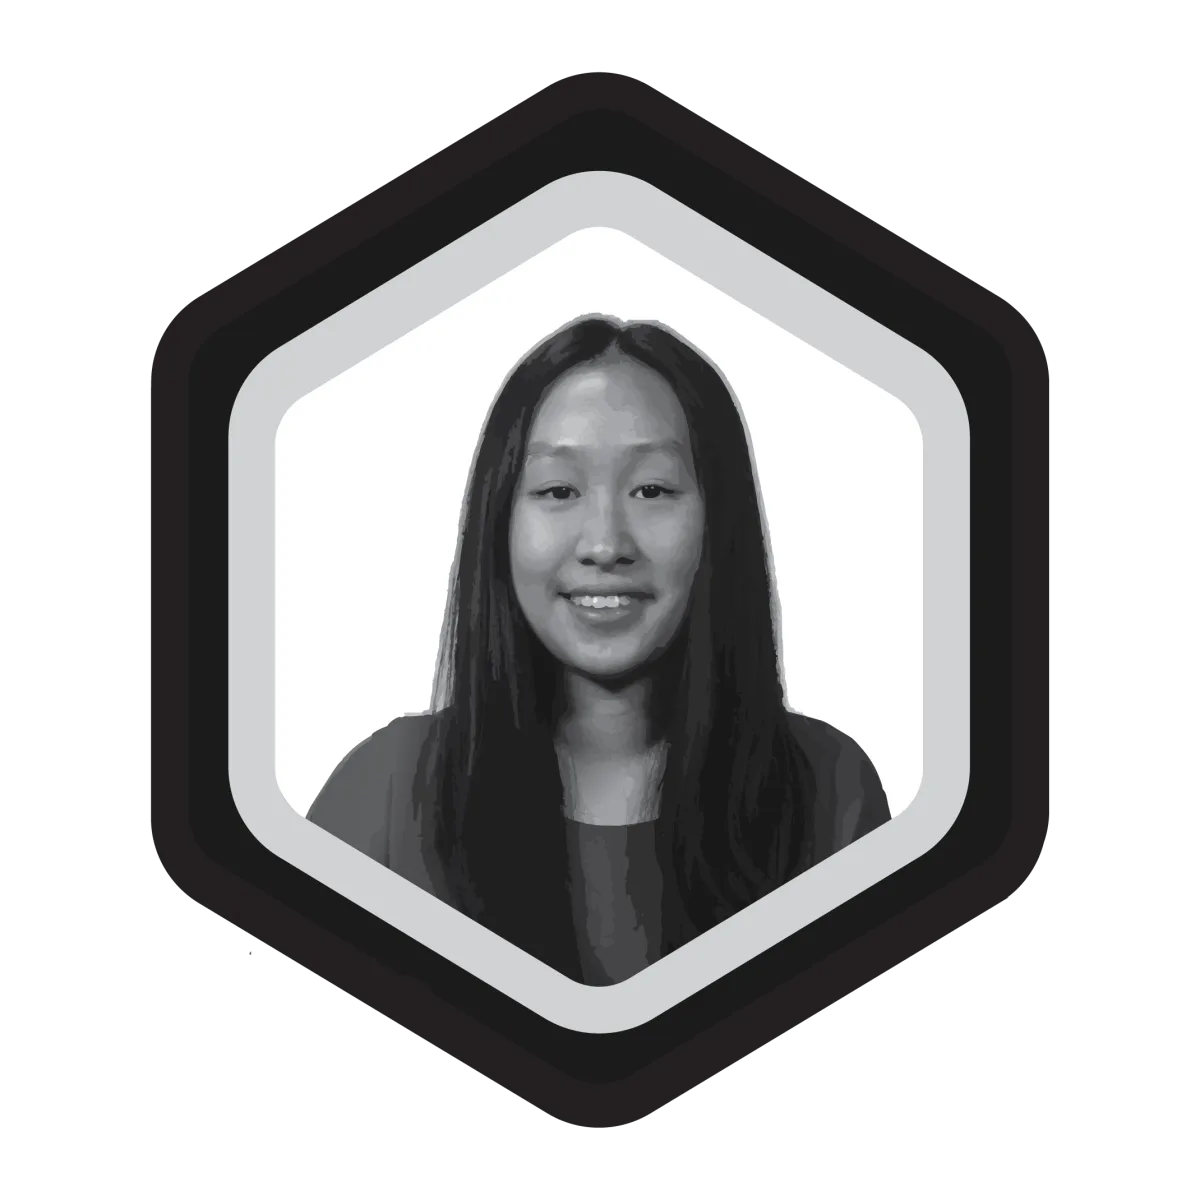
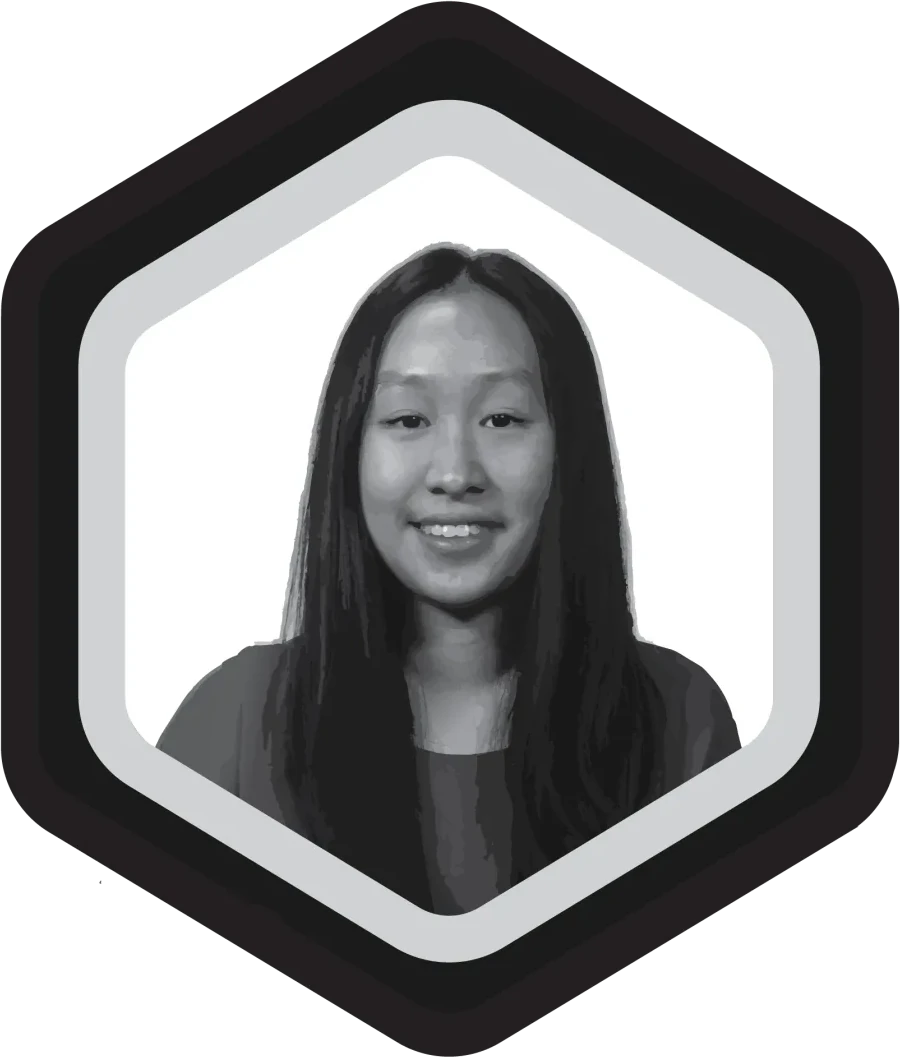
About: team hexagons all the same size and height on phones
- Cards in a row stretched to the tallest one (a role that wraps) and the
  extra height went into the square photo row, so the photo box grew:
  photos now sit at the top and keep one size (align-content: start).
- Eight portraits (Belinda, Dani, Jada, Josh, LaMyla, Sienna, Yahav,
  Cameron) had empty margins around their hexagon and drew ~12% smaller;
  trimmed to the hexagon like the rest (?v=2 so caches refresh).

diff --git a/js/main.js b/js/main.js
@@ -4124,7 +4124,7 @@ const teamMembers = [
         name: "Dani Molloy",
         role: "Digital Strategy Lead",
         bio: "Dani is a senior at Cornell University pursuing a B.A. in Information Science with a concentration in UX and a minor in Business. She is passionate about digital storytelling, user-centered design, and the ways emerging technologies can help people discover and engage with new ideas. Her interests lie at the intersection of technology, communication, and artificial intelligence, particularly how thoughtful design can make complex information more accessible and engaging. At The Catalyst, Dani is excited to help grow the publication's reach, strengthen its online community, and connect more readers with the stories shaping the future of STEM.",
-        image: "/Dani.webp",
+        image: "/Dani.webp?v=2",
         linkedin: "",
         email: ""
     },
@@ -4164,7 +4164,7 @@ const teamMembers = [
         name: "Belinda Li",
         role: "Editor",
         bio: "Belinda is a recent graduate of Georgetown University, where she majored in biology and minored in journalism. She has an interest in science writing and journalism, and she is passionate about making science more accessible to a lay audience. Her interest in science communication was shaped through her work as an intern at NASA's Goddard Space Flight Center, where she contributed to projects bridging technical advancements and public understanding. Belinda is fascinated by all areas of science, and she hopes to continue exploring and sharing about science in her future career.",
-        image: "/Belinda.webp",
+        image: "/Belinda.webp?v=2",
         linkedin: "",
         email: ""
     },
@@ -4196,7 +4196,7 @@ const teamMembers = [
         name: "Josh Shapo",
         role: "Writer",
         bio: "Josh is an electrical engineering student at the George Washington University graduating in the spring of 2027. He is involved in science advocacy and engineering policy, particularly within the space and aviation sectors. In his capacity as the Chair of IEEE-GWU and the IEEE Region 2 Student Representative, he strives to make academic and industrial STEM opportunities more accessible to students. He is currently conducting machine learning-based Heliophysics to denoise satellite magnetometry signals and aid scientific understanding of solar storms.",
-        image: "/JoshShapo.webp",
+        image: "/JoshShapo.webp?v=2",
         linkedin: "",
         email: ""
     },
@@ -4204,7 +4204,7 @@ const teamMembers = [
         name: "LaMyla Hill",
         role: "Writer",
         bio: "LaMyla is a rising Senior at Howard University, majoring in physics, with a concentration in astrophysics, and a minor in math. She is also a part of the College of Arts and Sciences Honors program and is a proud member of the Society of Physics Students. Ever since elementary school, LaMyla's dream career was to be a physicist, and she has been following this thread of fascination until now. After completing her bachelor's degree, she intends to enroll in graduate school to become an astrophysics researcher.",
-        image: "/LaMayla.webp",
+        image: "/LaMayla.webp?v=2",
         linkedin: "",
         email: ""
     },
@@ -4212,7 +4212,7 @@ const teamMembers = [
         name: "Sienna Halstead",
         role: "Writer",
         bio: "Sienna is a neuroscience student with a minor in Mind and Brain Studies in the Philosophy Department at George Washington University. She is passionate about science communication and connecting people with educational resources that inspire curiosity, as that is how her own love of science, philosophy, and anthropology was cultivated. Her academic interests primarily focus on understanding the biology of consciousness and the complex interactions between health, culture, and the environment. Her current research at George Washington University's Department of Neuroscience focuses on the development of next-generation therapeutics through drug repurposing to address antimicrobial resistance in parasitic hookworms.",
-        image: "/Sienna.webp",
+        image: "/Sienna.webp?v=2",
         linkedin: "",
         email: ""
     },
@@ -4220,7 +4220,7 @@ const teamMembers = [
         name: "Cameron Fields",
         role: "Writer",
         bio: "Cameron is a recent graduate from Johns Hopkins University with a B.A. in Public Health Studies and a minor in Psychology. She will be beginning her Master's of Science in Public Health at the Johns Hopkins Bloomberg School of Public Health in maternal, fetal, and perinatal health. Through her research experiences in prenatal care, harm reduction, and HIV, Cameron has become passionate about interacting with community members to ensure they have resources and education about various health topics. Cameron is drawn to the community-based side of medicine and hopes to continue to share and expand on this passion through her writing with the Catalyst, research, and in the future professionally as a physician.",
-        image: "/cameron.webp",
+        image: "/cameron.webp?v=2",
         linkedin: "",
         email: ""
     },
@@ -4228,7 +4228,7 @@ const teamMembers = [
         name: "Jada Traynor",
         role: "Writer",
         bio: "Jada Traynor is a senior at the George Washington University pursuing a double major in Chemistry and Biology with a minor in Human Anatomy. Throughout her time at GW, she has been engaged in both medicinal chemistry and genetics research, developing a strong interest in pharmacology, physiology, and the ways scientific discoveries can be translated into impactful clinical advances. She is drawn to work at the intersection of research and medicine, where a deeper understanding of human physiology can inspire problem solving and innovative approaches to patient care. Through The Catalyst, she hopes to highlight the profound and wide-ranging impact of scientific research by writing about the people, processes, and attitudes that drive scientific progress and how those discoveries influence our lives. In the future, she intends to pursue medical school and a career that combines patient care with scientific inquiry and problem solving.",
-        image: "/Jada.webp",
+        image: "/Jada.webp?v=2",
         linkedin: "",
         email: ""
     },
@@ -4236,7 +4236,7 @@ const teamMembers = [
         name: "Yahav Gutman",
         role: "Writer",
         bio: "Yahav is a second-year student pursuing a B.S. in Business & Engineering at Drexel University. As a certified personal trainer and performance coach, his interests lie in biomechanics, human performance, and the use of AI and data analysis to better understand training and adaptation. He seeks to bridge academic study and applied coaching practice in order to refine how human performance is measured and optimized. He is drawn to interdisciplinary approaches that turn complex systems into actionable insight.",
-        image: "/Yahav.webp",
+        image: "/Yahav.webp?v=2",
         linkedin: "",
         email: ""
     }

diff --git a/about.html b/about.html
@@ -601,8 +601,12 @@
       .ab-person {
         display: grid; gap: 12px; width: 100%; padding: 0; margin: 0; border: 0; background: none; text-align: left; cursor: pointer; color: inherit;
         border-radius: 6px;
+        /* Cards in a row stretch to the tallest one (a name that wraps); keep
+           that extra height below the text, not in the photo row, or the
+           square photo box grows and the hexagons end up different sizes. */
+        grid-template-columns: minmax(0, 1fr); align-content: start;
       }
-      .ab-person .ph { position: relative; aspect-ratio: 1; }   /* no clipping: the hexagon grows past its box on hover */
+      .ab-person .ph { position: relative; display: block; width: 100%; aspect-ratio: 1; margin: 0; align-self: start; }   /* no clipping: the hexagon grows past its box on hover */
       .ab-person img { width: 100%; height: 100%; object-fit: contain; filter: grayscale(1) contrast(1.02); transform: scale(1.001); transition: filter .6s var(--ease-out), transform .9s var(--ease-out); }
       .ab-person:hover img, .ab-person:focus-visible img { filter: grayscale(0); transform: scale(1.04); }
       .ab-person .ph::after {
@@ -920,7 +924,7 @@
     <script defer src="/js/newsletter-handler.js"></script>
     <script defer src="/js/data.js"></script>
     <!-- main.js holds the team roster (teamMembers / rosterGroups / alumniMembers) -->
-    <script defer src="/js/main.js?v=20260925-review"></script>
+    <script defer src="/js/main.js?v=20261010-team"></script>
     <script defer src="/js/about.js?v=18"></script>
     <script>
     /* In-page menu: shows once the opening is behind you, lights the section in

diff --git a/article.html b/article.html
@@ -147,7 +147,7 @@
     <script defer src="/js/lqip-manifest.js"></script>
     <script defer src="/js/data.js"></script>
     <script defer src="/js/glossary.js"></script>
-    <script defer src="/js/main.js?v=20261009-dropcap"></script>
+    <script defer src="/js/main.js?v=20261010-team"></script>
     <script defer src="/js/article-edition.js?v=2"></script>
 </body>
 </html>
